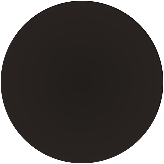
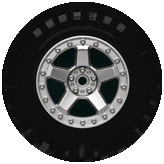
RC Rally 3.11 — restore slope lean; fix crawler/pixel white wheels
Cache-bust ?v=20260925wheels4. RCRallyJump only.

diff --git a/games/RCRallyJump/engine.js b/games/RCRallyJump/engine.js
@@ -1,4 +1,4 @@
-const VERSION = "3.10";
+const VERSION = "3.11";
 const VIEW_W = 960;
 const VIEW_H = 540;
 const PLAYER_X = 168;
@@ -520,9 +520,10 @@ function stepChassis(sim, dt, input) {
     const err = wrapDeg(input.aim - sim.rot);
     sim.av += clamp(err * 16 - sim.av * 4.2, -560, 560) * dt;
     if (contacts > 0) {
-      // Blend a little track camber in so aiming on dirt still feels planted.
+      // Keep dirt lean alive while aiming (boost-hold aimPoint used to starve pitch follow).
       const camber = wrapDeg(pitch - sim.rot);
-      sim.av += clamp(camber * 6 - sim.av * 0.8, -180, 180) * dt;
+      sim.av += clamp(camber * 14 - sim.av * 1.1, -280, 280) * dt;
+      sim.rot += camber * Math.min(1, dt * 6);
       sim.av *= Math.exp(-dt * 1.1);
     }
   } else if (contacts === 0) {
@@ -530,12 +531,13 @@ function stepChassis(sim, dt, input) {
     if (Math.abs(ang) < 85) sim.av += (-ang * 48 - sim.av * 13) * dt;
     else sim.av *= Math.exp(-dt * 1.4);
   } else {
-    // Follow the dirt curve / off-camber instead of freezing flat.
+    // Follow the dirt curve / off-camber (Line Rider) — spring + direct blend so slopes show lean.
     const err = wrapDeg(pitch - sim.rot);
     const grip = contacts === 2 ? 1 : 0.55;
-    sim.av += clamp(err * (22 * grip) - sim.av * (3.2 * grip), -420, 420) * dt;
-    // Soft settle — keep some lean authority (was exp*8 which killed tilt).
-    sim.av *= Math.exp(-dt * (contacts === 2 ? 3.2 : 1.6));
+    sim.av += clamp(err * (26 * grip) - sim.av * (2.6 * grip), -480, 480) * dt;
+    sim.rot += err * Math.min(1, dt * (10 * grip));
+    // Soft settle — keep lean authority (was exp*8 which killed tilt).
+    sim.av *= Math.exp(-dt * (contacts === 2 ? 2.4 : 1.4));
   }
   sim.av = clamp(sim.av, -360, 360);
   sim.rot = wrapDeg(sim.rot + sim.av * dt);
@@ -919,12 +921,24 @@ function step(sim, dt, input) {
     sim.speed = 48;
     sim.scroll += sim.speed * capped;
     sim.time += capped;
-    sim.y = plantY(sim, sim.scroll + PLAYER_X + CAR_W * 0.55);
-    sim.vy = 0;
     sim.grounded = true;
     sim.boosting = false;
-    sim.rot += (0 - sim.rot) * Math.min(1, capped * 4);
+    // Title parade: lean with dirt (Line Rider pitch) — do not flatten to 0.
+    const pitchTitle = surfacePitchDeg(sim);
+    sim.rot += wrapDeg(pitchTitle - sim.rot) * Math.min(1, capped * 10);
     sim.av = 0;
+    // Plant both contact patches after pitch so wheels kiss the slope.
+    {
+      const g0 = wheelGeom(sim, 0);
+      const g1 = wheelGeom(sim, 1);
+      const p0 = wheelWorld(sim, g0);
+      const p1 = wheelWorld(sim, g1);
+      const want0 = surfaceY(sim, p0.x) - g0.r;
+      const want1 = surfaceY(sim, p1.x) - g1.r;
+      const wantY = (want0 + want1) * 0.5 - CAR_H / 2;
+      sim.y = wantY;
+    }
+    sim.vy = 0;
     for (let i = 0; i < 2; i++) {
       const rad = Math.max(4, wheelGeom(sim, i).drawR);
       sim.wheelOmega[i] = sim.speed / rad;

diff --git a/games/RCRallyJump/standalone.js b/games/RCRallyJump/standalone.js
@@ -14,7 +14,7 @@ import {
   wheelPace,
   MISSILE_MAX,
   MISSILE_RELOAD
-} from "./engine.js?v=20260925wheels3";
+} from "./engine.js?v=20260925wheels4";
 var BEST_KEY = "rc-rally-jump-best";
 var RIG_KEY = "rc-rally-rig";
 var TUNE_KEY = "rc-rally-tune";
@@ -168,16 +168,16 @@ function boot() {
     pixel: new Image(),
     pixelWheel: new Image()
   };
-  art.buggy.src = artUrl("buggy.png") + "?v=20260925wheels3";
-  art.body.src = artUrl("buggy-body.png") + "?v=20260925wheels3";
-  art.wheelRear.src = artUrl("wheel-rear.png") + "?v=20260925wheels3";
-  art.wheelFront.src = artUrl("wheel-front.png") + "?v=20260925wheels3";
+  art.buggy.src = artUrl("buggy.png") + "?v=20260925wheels4";
+  art.body.src = artUrl("buggy-body.png") + "?v=20260925wheels4";
+  art.wheelRear.src = artUrl("wheel-rear.png") + "?v=20260925wheels4";
+  art.wheelFront.src = artUrl("wheel-front.png") + "?v=20260925wheels4";
   art.drone.src = artUrl("drone.png");
   art.sky.src = artUrl("sky.jpg");
   art.crawler.src = artUrl("crawler-body.png") + "?v=20260925render";
-  art.crawlerWheel.src = artUrl("crawler-wheel.png") + "?v=20260925wheels3";
+  art.crawlerWheel.src = artUrl("crawler-wheel.png") + "?v=20260925wheels4";
   art.pixel.src = artUrl("pixel-body.png") + "?v=20260925pixel";
-  art.pixelWheel.src = artUrl("pixel-wheel.png") + "?v=20260925wheels3";
+  art.pixelWheel.src = artUrl("pixel-wheel.png") + "?v=20260925wheels4";
   const rigBtns = [...document.querySelectorAll("#rigs .rig")];
   const picked = el("picked");
   const paintRigs = () => {

diff --git a/games/RCRallyJump/index.html b/games/RCRallyJump/index.html
@@ -452,6 +452,6 @@
       <button type="button" class="reset" id="tune-reset" data-ui>Reset</button>
     </div>
   </div>
-  <script type="module" src="./standalone.js?v=20260925wheels3"></script>
+  <script type="module" src="./standalone.js?v=20260925wheels4"></script>
 </body>
 </html>
